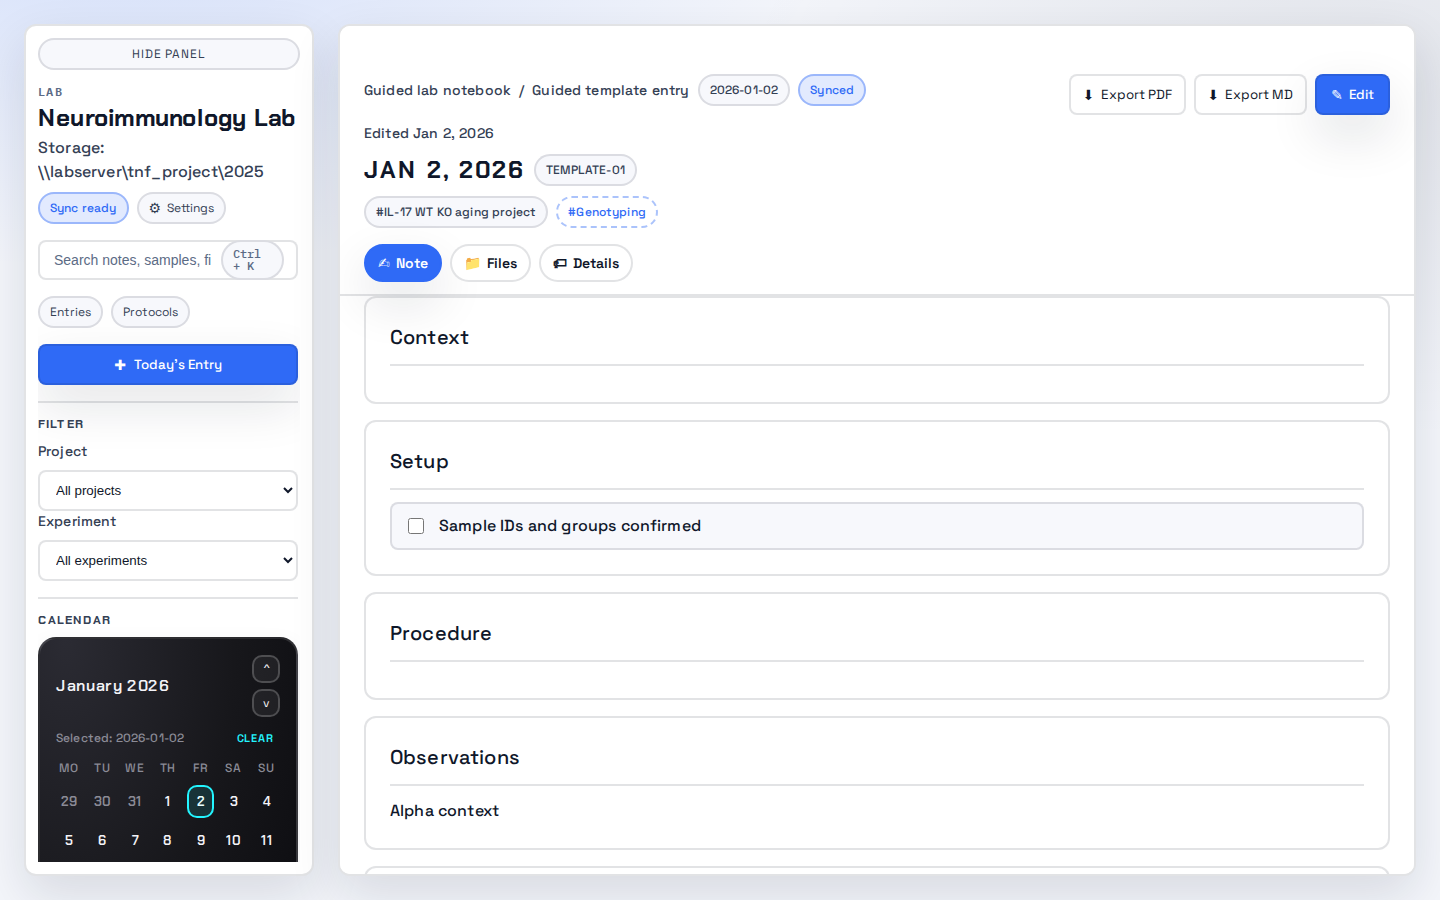
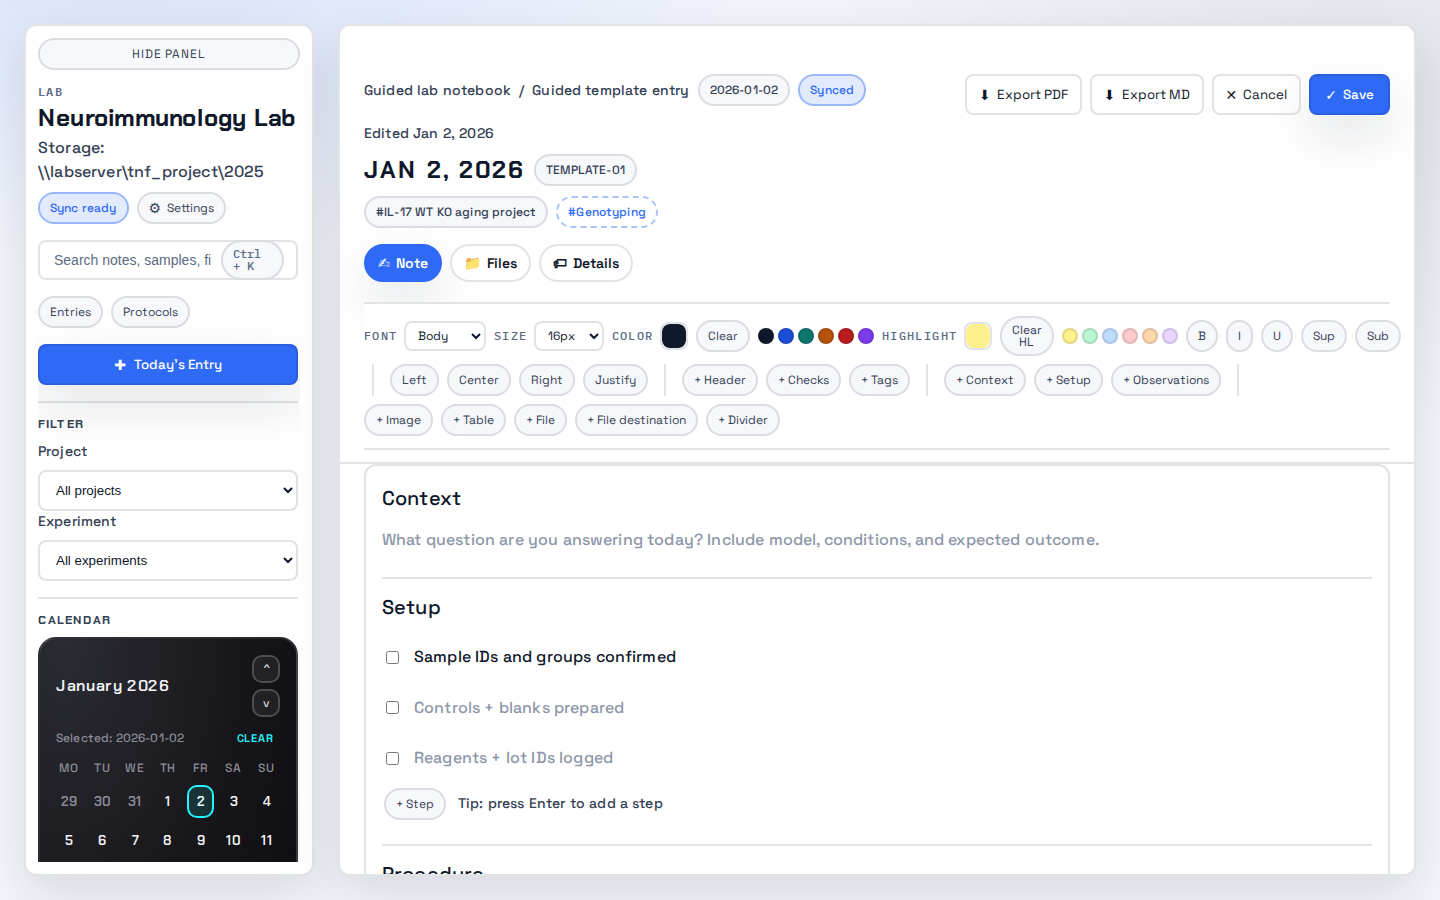
Sort entries and auto-edit today

diff --git a/web/tests/app.spec.ts b/web/tests/app.spec.ts
@@ -20,6 +20,25 @@ async function boot(
   await page.goto('/')
 }
 
+async function ensureEditMode(page: Page) {
+  await page.waitForSelector('[data-testid="entry-save"], button:has-text("Edit")')
+  const saveButton = page.getByTestId('entry-save')
+  if ((await saveButton.count()) === 0) {
+    const editButton = page.getByRole('button', { name: 'Edit' })
+    await editButton.click()
+  }
+  await expect(saveButton).toBeVisible()
+}
+
+async function ensureViewMode(page: Page) {
+  await page.waitForSelector('[data-testid="entry-save"], button:has-text("Edit")')
+  const saveButton = page.getByTestId('entry-save')
+  if (await saveButton.count()) {
+    await page.getByRole('button', { name: 'Cancel' }).click()
+  }
+  await expect(page.getByRole('button', { name: 'Edit' })).toBeVisible()
+}
+
 test.describe('Lab note taking app', () => {
   test('loads baseline UI', async ({ page }) => {
     await boot(page, { noFail: '1' })
@@ -33,7 +52,7 @@ test.describe('Lab note taking app', () => {
   test('today entry opens with the guided template', async ({ page }) => {
     await boot(page, { noFail: '1' })
     await page.getByTestId('today-entry').click()
-    await expect(page.getByRole('button', { name: 'Save' })).toBeVisible()
+    await ensureEditMode(page)
 
     await page.getByRole('button', { name: 'Save' }).click()
     await expect(page.getByRole('heading', { name: 'Context' })).toBeVisible()
@@ -43,6 +62,7 @@ test.describe('Lab note taking app', () => {
   test('guided template prompts clear on input', async ({ page }) => {
     await boot(page, { noFail: '1' })
     await page.getByTestId('today-entry').click()
+    await ensureEditMode(page)
 
     const guideText =
       'What question are you answering today? Include model, conditions, and expected outcome.'
@@ -58,7 +78,7 @@ test.describe('Lab note taking app', () => {
 
   test('context stays editable after backspace at start', async ({ page }) => {
     await boot(page, { noFail: '1' })
-    await page.getByRole('button', { name: 'Edit' }).click()
+    await ensureEditMode(page)
 
     await page.evaluate((blockId) => {
       const editor = document.querySelector('[data-testid="slate-editor"]') as HTMLElement | null
@@ -90,7 +110,7 @@ test.describe('Lab note taking app', () => {
 
   test('context draft persists when toggling tags', async ({ page }) => {
     await boot(page, { noFail: '1' })
-    await page.getByRole('button', { name: 'Edit' }).click()
+    await ensureEditMode(page)
 
     await page.evaluate((blockId) => {
       const editor = document.querySelector('[data-testid="slate-editor"]') as HTMLElement | null
@@ -123,7 +143,7 @@ test.describe('Lab note taking app', () => {
 
   test('tabs switch between note, files, and details in edit mode', async ({ page }) => {
     await boot(page, { noFail: '1' })
-    await page.getByRole('button', { name: 'Edit' }).click()
+    await ensureEditMode(page)
 
     await page.getByRole('tab', { name: /Details/i }).click()
     await expect(page.getByTestId('entry-project-tags')).toBeVisible()
@@ -137,7 +157,7 @@ test.describe('Lab note taking app', () => {
 
   test('checklist text flows horizontally in edit mode', async ({ page }) => {
     await boot(page, { noFail: '1' })
-    await page.getByRole('button', { name: 'Edit' }).click()
+    await ensureEditMode(page)
 
     const firstItem = page.getByTestId('check-item-text').first()
     await expect(firstItem).toBeVisible()
@@ -152,6 +172,7 @@ test.describe('Lab note taking app', () => {
   test('master sync root prefixes file destinations', async ({ page }) => {
     await boot(page, { noFail: '1' })
     await page.getByTestId('today-entry').click()
+    await ensureEditMode(page)
 
     await page.getByRole('tab', { name: /Files/ }).click()
     await page
@@ -172,10 +193,12 @@ test.describe('Lab note taking app', () => {
   test('auto-save downloads when disk cache is unavailable', async ({ page }) => {
     await boot(page, { noFail: '1', stubPicker: true })
     await page.getByTestId('today-entry').click()
+    await ensureEditMode(page)
 
     const editor = page.getByTestId('slate-editor')
     await editor.locator('p.block-paragraph').first().click({ force: true })
     await page.keyboard.type('Auto-save download text')
+    await expect(editor).toContainText('Auto-save download text')
     await expect(page.getByTestId('entry-save')).toBeVisible()
     const [download] = await Promise.all([
       page.waitForEvent('download'),
@@ -188,6 +211,7 @@ test.describe('Lab note taking app', () => {
 
   test('view-mode checklist toggle syncs', async ({ page }) => {
     await boot(page, { noFail: '1' })
+    await ensureViewMode(page)
 
     const firstChecklist = page.locator('.check-row').first()
     await expect(firstChecklist).toBeVisible()
@@ -200,7 +224,6 @@ test.describe('Lab note taking app', () => {
   test('today entry opens in edit mode', async ({ page }) => {
     await boot(page, { noFail: '1' })
 
-    await page.getByTestId('today-entry').click()
     await expect(page.getByRole('button', { name: 'Save' })).toBeVisible()
 
     const editor = page.getByTestId('slate-editor')
@@ -209,6 +232,7 @@ test.describe('Lab note taking app', () => {
 
   test('sync failures can be retried', async ({ page }) => {
     await boot(page, { noFail: '0', failNext: true })
+    await ensureViewMode(page)
 
     const firstChecklist = page.locator('.check-row').first()
     await firstChecklist.locator('input[type="checkbox"]').click()
@@ -289,6 +313,7 @@ test.describe('Lab note taking app', () => {
 
   test('view mode does not accumulate context across entries', async ({ page }) => {
     await boot(page, { noFail: '1' })
+    await ensureViewMode(page)
     const formatter = new Intl.DateTimeFormat('en-US', { month: 'short', day: 'numeric', year: 'numeric' })
     const todayTitle = formatter.format(new Date())
     const yesterday = new Date()
@@ -309,6 +334,22 @@ test.describe('Lab note taking app', () => {
     await entryList.getByRole('button', { name: new RegExp(yesterdayTitle) }).click()
     await expect(entryView).toContainText('Beta context')
     await expect(entryView).not.toContainText('Alpha context')
+  })
+
+  test('entries list sorts newest first', async ({ page }) => {
+    await boot(page, { noFail: '1' })
+    await page.getByTestId('calendar-clear').click()
+
+    const today = new Date()
+    const yesterday = new Date(today)
+    yesterday.setDate(today.getDate() - 1)
+    const formatter = new Intl.DateTimeFormat('en-US', { month: 'short', day: 'numeric', year: 'numeric' })
+    const todayTitle = formatter.format(today)
+    const yesterdayTitle = formatter.format(yesterday)
+
+    const entryItems = page.getByTestId('entry-list').getByRole('button')
+    await expect(entryItems.nth(0)).toContainText(todayTitle)
+    await expect(entryItems.nth(1)).toContainText(yesterdayTitle)
   })
 
   test('sidebar can be collapsed and expanded', async ({ page }) => {

diff --git a/web/src/App.tsx b/web/src/App.tsx
@@ -55,6 +55,16 @@ const monthStartFromIso = (isoDate: string) => {
   return new Date(year, Math.max(0, month), 1)
 }
 
+const entrySortTimestamp = (entry: Entry) => {
+  const candidates = [entry.dateBucket, entry.createdDatetime, entry.lastEditedDatetime]
+  for (const value of candidates) {
+    if (!value) continue
+    const parsed = Date.parse(value)
+    if (!Number.isNaN(parsed)) return parsed
+  }
+  return 0
+}
+
 type ChangeQueueItem = {
   id: string
   entryId: string
@@ -916,7 +926,18 @@ function App() {
     }
     return sampleData.protocols
   })
-  const entryList = useMemo(() => Object.values(entryDrafts), [entryDrafts])
+  const entryList = useMemo(() => {
+    const entries = Object.values(entryDrafts)
+    return entries.sort((a, b) => {
+      const aTime = entrySortTimestamp(a)
+      const bTime = entrySortTimestamp(b)
+      if (aTime !== bTime) return bTime - aTime
+      const aEdited = Date.parse(a.lastEditedDatetime ?? '') || 0
+      const bEdited = Date.parse(b.lastEditedDatetime ?? '') || 0
+      if (aEdited !== bEdited) return bEdited - aEdited
+      return (a.title ?? '').localeCompare(b.title ?? '')
+    })
+  }, [entryDrafts])
   const todaySeed = useMemo(() => {
     const now = new Date()
     return `${now.getFullYear()}-${String(now.getMonth() + 1).padStart(2, '0')}-${String(now.getDate()).padStart(2, '0')}`
@@ -1316,7 +1337,7 @@ function App() {
 
   useEffect(() => {
     if (dailySeededRef.current) return
-    openDailyEntry(new Date())
+    openDailyEntry(new Date(), { autoEdit: true })
     dailySeededRef.current = true
   }, [openDailyEntry])
 
